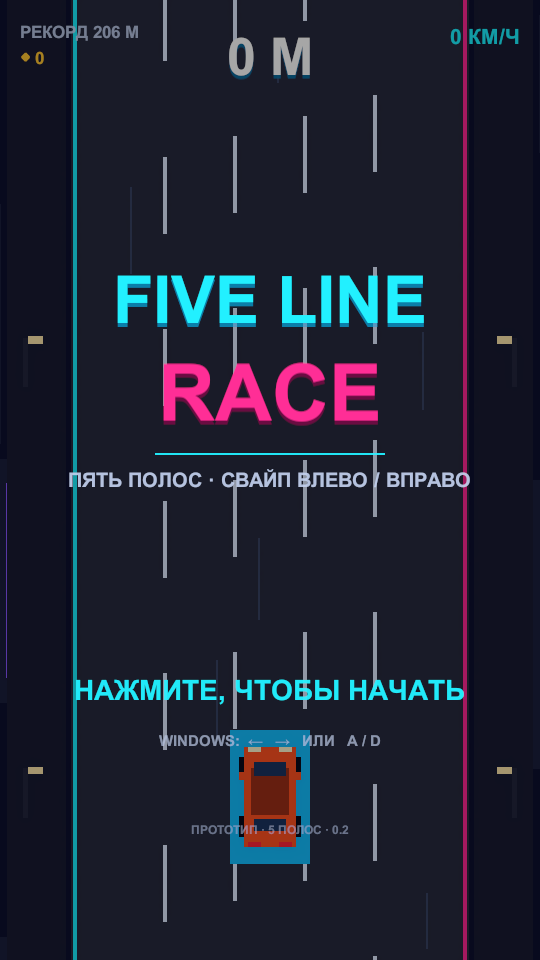
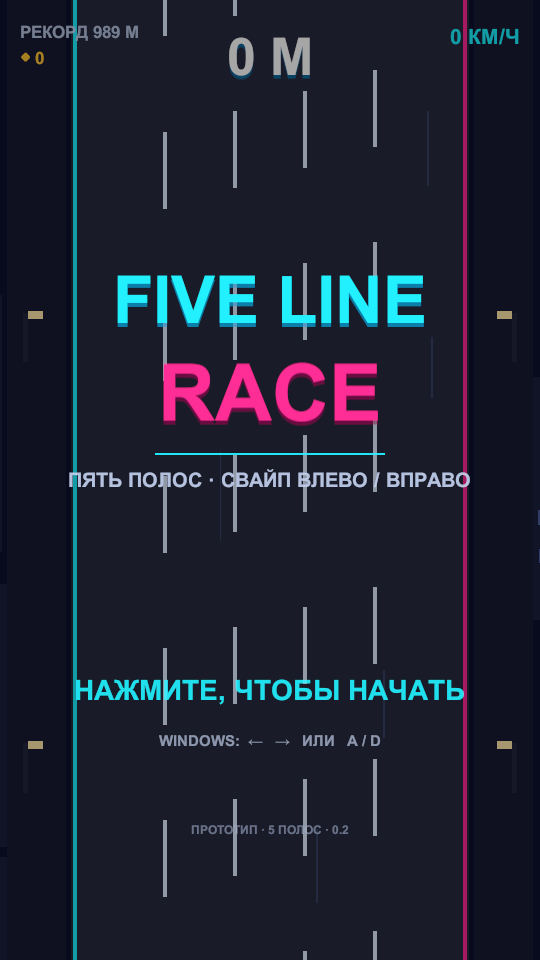
Remove underglow, fix 2D rendering and clean up menu
- drop the cyan underglow quad around the player car
- hide the player car in the menu so it no longer overlaps the footer text
- resolve the URP Unlit shader through the Resources material so builds always contain it
- disable Screen Space Ambient Occlusion in the PC renderer (the scene is unlit 2D)
- ignore Unity Performance Testing artifacts, refresh README screenshots

diff --git a/Assets/FiveLineRace/Scripts/G2Game.cs b/Assets/FiveLineRace/Scripts/G2Game.cs
@@ -28,6 +28,7 @@ namespace FiveLineRace
         }
 
         PlayerCar2D car;
+        GameObject carVisual;
         CameraShake2D shake;
         UIManager2D ui;
         Transform worldRoot;
@@ -82,6 +83,10 @@ namespace FiveLineRace
             var visual = G2Visuals.CreatePlayer(carRoot.transform);
             car = carRoot.AddComponent<PlayerCar2D>();
             car.Init(visual.transform);
+
+            // В меню машину не показываем: на экране только трасса и заголовок.
+            carVisual = visual;
+            carVisual.SetActive(false);
 
             ui = UIManager2D.Create();
             ui.SetHud(0, Best, 0, 0f);
@@ -206,6 +211,8 @@ namespace FiveLineRace
             Time.timeScale = 1f;
 
             ClearSpawned();
+
+            if (carVisual != null) carVisual.SetActive(true);
 
             car.ResetToCenter();
             Distance = 0f;

diff --git a/Assets/FiveLineRace/Scripts/G2Mats.cs b/Assets/FiveLineRace/Scripts/G2Mats.cs
@@ -15,6 +15,13 @@ namespace FiveLineRace
         {
             get
             {
+                // Материал из Resources гарантирует, что URP Unlit и его варианты
+                // реально попали в билд (его создаёт редакторский билдер).
+                if (unlitShader == null)
+                {
+                    var template = Resources.Load<Material>("TurboUnlit");
+                    if (template != null) unlitShader = template.shader;
+                }
                 if (unlitShader == null) unlitShader = Shader.Find("Universal Render Pipeline/Unlit");
                 if (unlitShader == null) unlitShader = Shader.Find("Unlit/Color");
                 if (unlitShader == null) unlitShader = Shader.Find("Sprites/Default");

diff --git a/Assets/FiveLineRace/Scripts/G2Visuals.cs b/Assets/FiveLineRace/Scripts/G2Visuals.cs
@@ -15,10 +15,6 @@ namespace FiveLineRace
 
             var body = new Color(1f, 0.33f, 0.12f);
 
-            // Неоновая подсветка под машиной.
-            G2Quad.Create(root.transform, "Underglow", 0f, 0f, 1.75f, 2.95f,
-                new Color(0.1f, 0.75f, 1f), 0.06f);
-
             BuildCar(root.transform, body);
             return root;
         }
